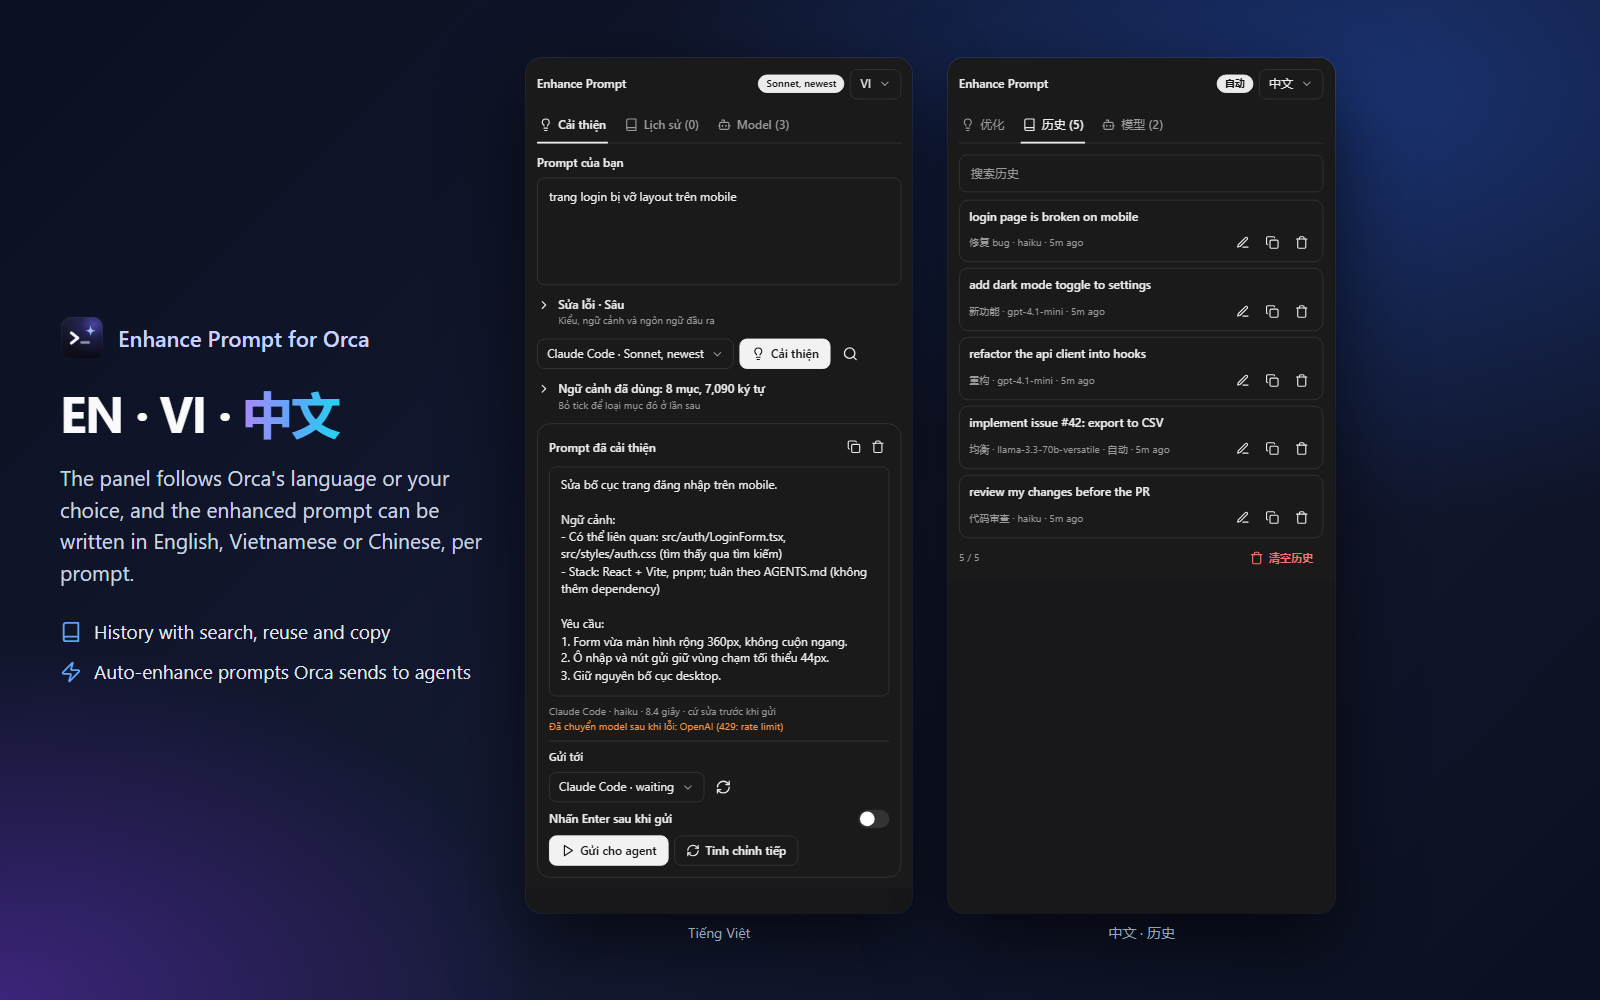
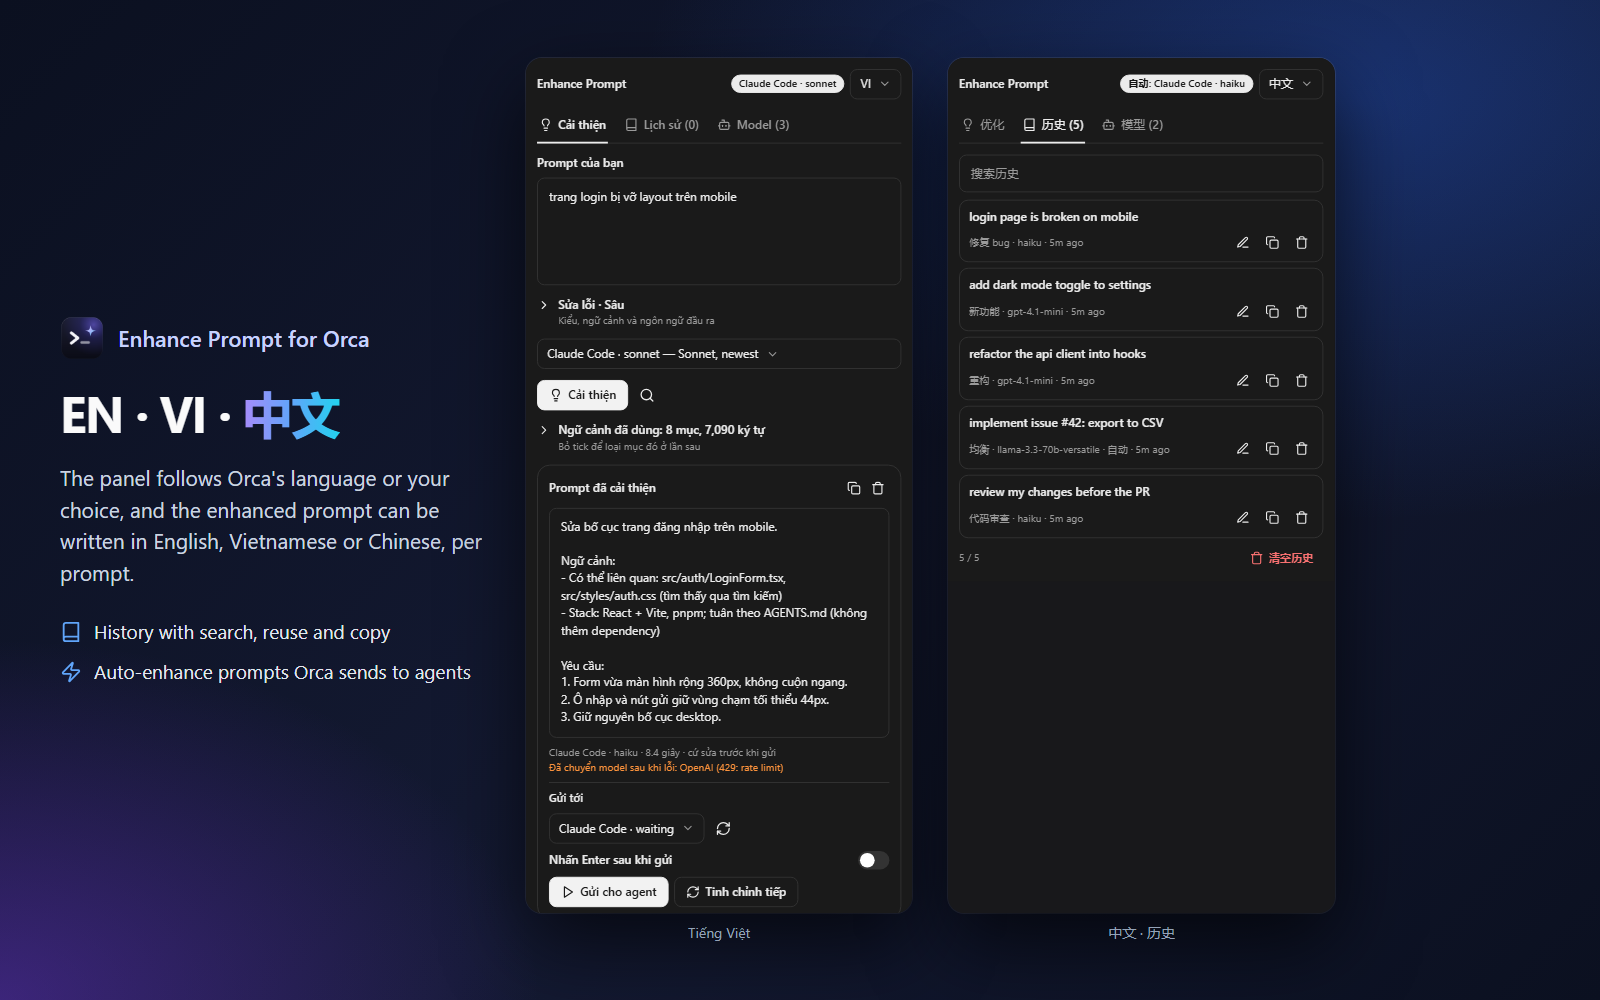
v1.7.0: Reorder models in one click

diff --git a/src/panel.tsx b/src/panel.tsx
@@ -206,7 +206,7 @@ function formCatalogInput(current: Form) {
 function modelOptions(catalog: Catalog | undefined, current: string) {
   const options = (catalog?.models ?? []).map((model) => ({
     value: model.id,
-    label: model.isDefault ? `${model.label} · ${t('your default')}` : model.label
+    label: model.isDefault ? `${modelName(model.id, model.label)} · ${t('your default')}` : modelName(model.id, model.label)
   }))
   if (current && !options.some((option) => option.value === current)) options.unshift({ value: current, label: current })
   return options
@@ -429,12 +429,12 @@ async function saveForm(): Promise<void> {
   }
 }
 
-async function modelAction(action: { remove: string } | { move: string; direction: 'up' | 'down' }): Promise<void> {
+async function modelAction(action: { remove: string } | { move: string; to: number }): Promise<void> {
   try {
     const next =
       'remove' in action
         ? await plugin.request('models.delete', { id: action.remove })
-        : await plugin.request('models.move', { id: action.move, direction: action.direction })
+        : await plugin.request('models.move', { id: action.move, to: action.to })
     set(models, next)
   } catch (error) {
     set(notice, { tone: 'danger', text: message(error) })
@@ -613,6 +613,15 @@ const PROFILE_DEFAULT = '__profile_default__'
 /** "sonnet: Sonnet, newest" -> "Sonnet, newest"; display names stay as they are. */
 const modelDisplay = (label: string) => (label.includes(': ') ? label.slice(label.indexOf(': ') + 2) : label)
 
+const squash = (text: string) => text.toLowerCase().replace(/[^a-z0-9]/g, '')
+
+/** "sonnet — Sonnet, newest", or just "GPT-6.1-Sol" when the display name is the id. */
+function modelName(id: string, label: string): string {
+  const display = modelDisplay(label)
+  if (!id) return display
+  return squash(display) === squash(id) || display === id ? display : `${id} — ${display}`
+}
+
 /** Every model of every enabled profile, from its live list, plus Auto. */
 function modelMenu() {
   const options: { value: string; label: string }[] = [
@@ -633,16 +642,21 @@ function modelMenu() {
     }
     if (profile.provider === 'cli' && !profile.model) add('', t('CLI default'))
     else if (profile.model && !listed.some((model) => model.id === profile.model)) add(profile.model, profile.model)
-    for (const model of listed) add(model.id, modelDisplay(model.label))
+    for (const model of listed) add(model.id, modelName(model.id, model.label))
   }
   return options
 }
 
-/** Short name of the model picked in the composer, for the header badge. */
+/** The model that will answer, for the header badge: "Claude Code · sonnet", or Auto's first model. */
 function pickedModelLabel(): string {
-  if (read(profileChoice) === 'auto') return t('Auto')
-  const option = modelMenu().find((entry) => entry.value === currentModelValue())
-  return option?.label.split(' · ')[1] ?? t('Auto')
+  const profiles = read(enabledProfiles)
+  const choice = read(profileChoice)
+  const profile = choice === 'auto' ? profiles[0] : profiles.find((entry) => entry.id === choice)
+  if (!profile) return t('Auto')
+  const id = (choice === 'auto' ? '' : read(modelChoice)) || profile.model
+  const listed = read(catalogs)[profile.id]?.models.find((model) => model.id === id)
+  const name = id ? (listed && squash(modelDisplay(listed.label)) === squash(id) ? modelDisplay(listed.label) : id) : t('CLI default')
+  return `${choice === 'auto' ? `${t('Auto')}: ` : ''}${profile.name} · ${name}`
 }
 
 function currentModelValue(): string {
@@ -752,8 +766,8 @@ function EnhanceTab() {
         onSubmit={() => void enhanceNow()}
       />
       <PromptOptions />
-      <Row gap="xs" wrap>
-        <ComposerModelPicker />
+      <ComposerModelPicker />
+      <Row gap="xs">
         {working === 'enhance' ? (
           <Row gap="xs">
             <Spinner label={t('Enhancing')} />
@@ -1022,7 +1036,17 @@ function ProfileCard({ profile, index, count, fromEnv }: { profile: ProfileView;
     <Box gap="xs" padding="sm" border radius="md" background={profile.enabled ? 'none' : 'muted'}>
       <Row justify="between" gap="xs">
         <Row gap="xs">
-          <Badge tone={profile.enabled ? 'accent' : 'neutral'}>{index + 1}</Badge>
+          {fromEnv || count < 2 ? (
+            <Badge tone={profile.enabled ? 'accent' : 'neutral'}>{index + 1}</Badge>
+          ) : (
+            <Select
+              label={t('Order')}
+              labelHidden
+              value={String(index)}
+              options={Array.from({ length: count }, (_, position) => ({ value: String(position), label: `#${position + 1}` }))}
+              onChange={(value) => void modelAction({ move: profile.id, to: Number(value) })}
+            />
+          )}
           <Text weight="medium" truncate>
             {profile.name}
           </Text>
@@ -1040,8 +1064,6 @@ function ProfileCard({ profile, index, count, fromEnv }: { profile: ProfileView;
           <IconButton icon="check" label={t('Test')} size="sm" variant="ghost" onPress={() => void testProfile(profile.id)} disabled={read(busy) === 'test'} />
           {fromEnv ? null : (
             <Row gap="none">
-              <IconButton icon="collapse" label={t('Move up (try earlier)')} size="sm" variant="ghost" disabled={index === 0} onPress={() => void modelAction({ move: profile.id, direction: 'up' })} />
-              <IconButton icon="expand" label={t('Move down (try later)')} size="sm" variant="ghost" disabled={index === count - 1} onPress={() => void modelAction({ move: profile.id, direction: 'down' })} />
               <IconButton icon="edit" label={t('Edit')} size="sm" variant="ghost" onPress={() => openForm(profile)} />
               <IconButton icon="delete" label={t('Delete')} size="sm" variant="ghost" tone="danger" onPress={() => void modelAction({ remove: profile.id })} />
             </Row>

diff --git a/src/model-picker.test.tsx b/src/model-picker.test.tsx
@@ -51,14 +51,18 @@ test('lists each model of each profile and sends the one you pick', async () => 
   const labels = (menu.props.options as { label: string }[]).map((option) => option.label)
   assert.deepEqual(labels, [
     'Auto (chain with fallback)',
-    'Claude Code · Haiku, newest (fastest) · default',
-    'Claude Code · Sonnet, newest',
-    'Claude Code · Opus, newest',
+    'Claude Code · haiku — Haiku, newest (fastest) · default',
+    'Claude Code · sonnet — Sonnet, newest',
+    'Claude Code · opus — Opus, newest',
     'Codex · CLI default',
     'Codex · GPT-6.1-Sol'
   ])
 
+  // The header names the model that will answer.
+  assert.ok(view.find({ type: 'Badge', text: 'Auto: Claude Code · haiku' }))
+
   await view.select(menu, 'claude|opus')
+  assert.ok(view.find({ type: 'Badge', text: 'Claude Code · opus' }))
   await view.type({ label: 'Your prompt' }, 'fix it')
   await view.press({ role: 'button', text: 'Enhance' })
   assert.equal(sent[0].profileId, 'claude')

diff --git a/src/protocol.ts b/src/protocol.ts
@@ -74,7 +74,8 @@ declare module 'orca' {
     /** Adds or updates a profile (and its key). */
     'models.save': { input: ProfileInput; output: ModelsView }
     'models.delete': { input: { id: string }; output: ModelsView }
-    'models.move': { input: { id: string; direction: 'up' | 'down' }; output: ModelsView }
+    /** Moves a profile one step, or straight to position `to` (0 = tried first). */
+    'models.move': { input: { id: string; direction?: 'up' | 'down'; to?: number }; output: ModelsView }
     'models.roles': { input: { hookProfileId: string | null; selectorProfileId: string | null }; output: ModelsView }
     /** Sends a tiny request through one profile. */
     'models.test': { input: { id: string }; output: { ok: boolean; message: string; ms: number } }

diff --git a/src/worker.test.ts b/src/worker.test.ts
@@ -192,6 +192,10 @@ test('model profiles: add with key, reorder, roles, delete', async () => {
   assert.equal(local.keySource, 'not-needed')
   view = await worker.request('models.move', { id: local.id, direction: 'up' })
   assert.deepEqual(view.profiles.map((p) => p.name), ['Local', 'GPT'])
+  view = await worker.request('models.move', { id: local.id, to: 1 })
+  assert.deepEqual(view.profiles.map((p) => p.name), ['GPT', 'Local'])
+  view = await worker.request('models.move', { id: local.id, to: 0 })
+  assert.deepEqual(view.profiles.map((p) => p.name), ['Local', 'GPT'])
   view = await worker.request('models.roles', { hookProfileId: local.id, selectorProfileId: 'nope' })
   assert.equal(view.hookProfileId, local.id)
   assert.equal(view.selectorProfileId, null)

diff --git a/src/worker.ts b/src/worker.ts
@@ -386,10 +386,10 @@ export default function activate(orca: OrcaWorkerApi): void {
     return modelsView(orca)
   })
 
-  orca.panels.handle('models.move', async ({ id, direction }) => {
+  orca.panels.handle('models.move', async ({ id, direction, to }) => {
     const config = await editableModels(orca)
     const index = config.profiles.findIndex((profile) => profile.id === id)
-    const target = direction === 'up' ? index - 1 : index + 1
+    const target = typeof to === 'number' ? Math.round(to) : direction === 'up' ? index - 1 : index + 1
     if (index >= 0 && target >= 0 && target < config.profiles.length) {
       const [moved] = config.profiles.splice(index, 1)
       config.profiles.splice(target, 0, moved)

diff --git a/src/i18n.ts b/src/i18n.ts
@@ -17,6 +17,7 @@ export function resolveLanguage(setting: string, locale: string): UiLanguage {
 }
 
 const VI: Record<string, string> = {
+  Order: 'Thứ tự',
   'More settings and privacy': 'Cài đặt khác và quyền riêng tư',
   'Uses your subscription': 'Dùng gói subscription của bạn',
   'Style, context and output language': 'Kiểu, ngữ cảnh và ngôn ngữ đầu ra',
@@ -189,6 +190,7 @@ const VI: Record<string, string> = {
 }
 
 const ZH: Record<string, string> = {
+  Order: '顺序',
   'More settings and privacy': '更多设置与隐私',
   'Uses your subscription': '使用你的订阅',
   'Style, context and output language': '风格、上下文和输出语言',

diff --git a/CHANGELOG.md b/CHANGELOG.md
@@ -3,6 +3,17 @@
 All notable changes to Enhance Prompt. Versions follow [semver](https://semver.org); each
 version is a `vX.Y.Z` git tag and a GitHub release with these notes.
 
+## [1.7.0] - 2026-11-08
+
+### Changed
+- **Reorder models in one click**: the number on each model card is now a position menu (#1, #2…); pick #1 to
+  try a model first. The up/down arrows are gone. Orca's plugin UI has no drag and drop, so this is the
+  fastest way to move a model.
+- **Detailed model names** everywhere: the header shows the model that will answer, such as
+  "Claude Code · sonnet" or "Auto: Claude Code · haiku"; the menus show the id and its description,
+  such as "sonnet — Sonnet, newest".
+- The model menu has its own row above **Enhance**, so long names never push the buttons around.
+
 ## [1.6.2] - 2026-11-08
 
 ### Changed
@@ -146,6 +157,7 @@ version is a `vX.Y.Z` git tag and a GitHub release with these notes.
 - Auto-enhance hook for prompts Orca sends to agents (rules or AI), toggled from the status bar.
 - Bracketed paste for multi-line prompts.
 
+[1.7.0]: https://github.com/cattfan/orca-enhance-prompt/releases/tag/v1.7.0
 [1.6.2]: https://github.com/cattfan/orca-enhance-prompt/releases/tag/v1.6.2
 [1.6.1]: https://github.com/cattfan/orca-enhance-prompt/releases/tag/v1.6.1
 [1.6.0]: https://github.com/cattfan/orca-enhance-prompt/releases/tag/v1.6.0

diff --git a/docs/models.md b/docs/models.md
@@ -57,7 +57,10 @@ Lists are cached for a day. Click **Refresh model list** (↻) next to the field
 
 ## Fallback
 
-Models are tried from top to bottom. Use the arrows on each card to reorder them, and the switch to skip one.
+Models are tried from top to bottom. The **#** menu on each card sets its position (pick **#1** to try it first), and the switch skips it.
+
+> [!NOTE]
+> Orca's plugin UI has no drag and drop, so the position is a menu: one click instead of a drag.
 
 - **Fallback to the next model when one fails** (on by default).
 - **Fall back on**:
